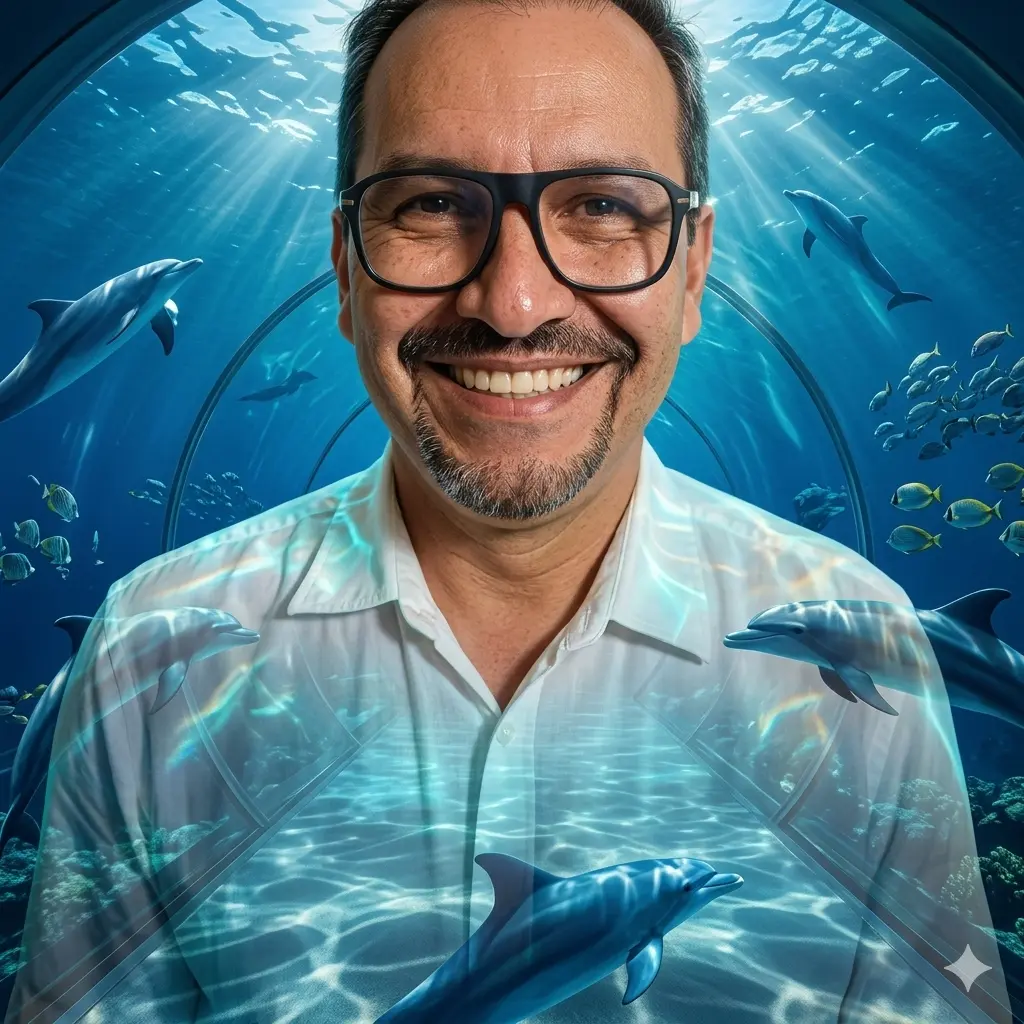
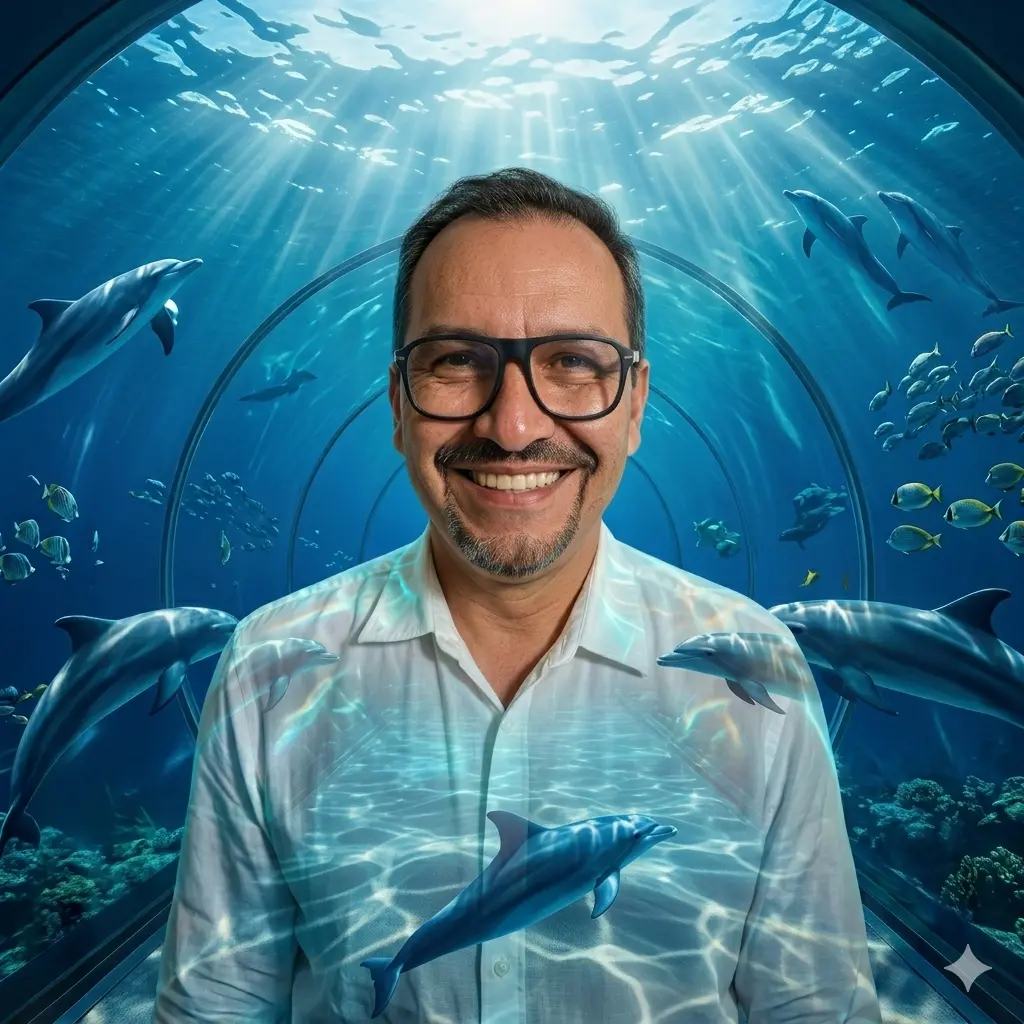
Add files via upload

diff --git a/index.html b/index.html
@@ -213,7 +213,7 @@
     <div class="zona-perfil-pagina" style="display:flex; justify-content:center; align-items:center; padding:28px 16px; background:#fff; border-bottom:1px solid #eee;">
         <div style="position:relative;">
             <div id="imgPerfilBtn"
-                 style="width:400px; height:400px; max-width:90vw; max-height:90vw; border-radius:16px; overflow:hidden; box-shadow:0 4px 24px rgba(0,0,0,0.12); position:relative;">
+                 style="width:300px; height:300px; max-width:75vw; max-height:75vw; border-radius:50%; overflow:hidden; box-shadow:0 4px 28px rgba(0,0,0,0.18); position:relative; border:5px solid #c9a98a; outline:3px solid #e8ddd5;">
                 <img src="imagenes/perfilequus.webp" alt="Acuario Equus Morelia" style="width:100%; height:100%; object-fit:cover; display:block;">
             </div>
         </div>